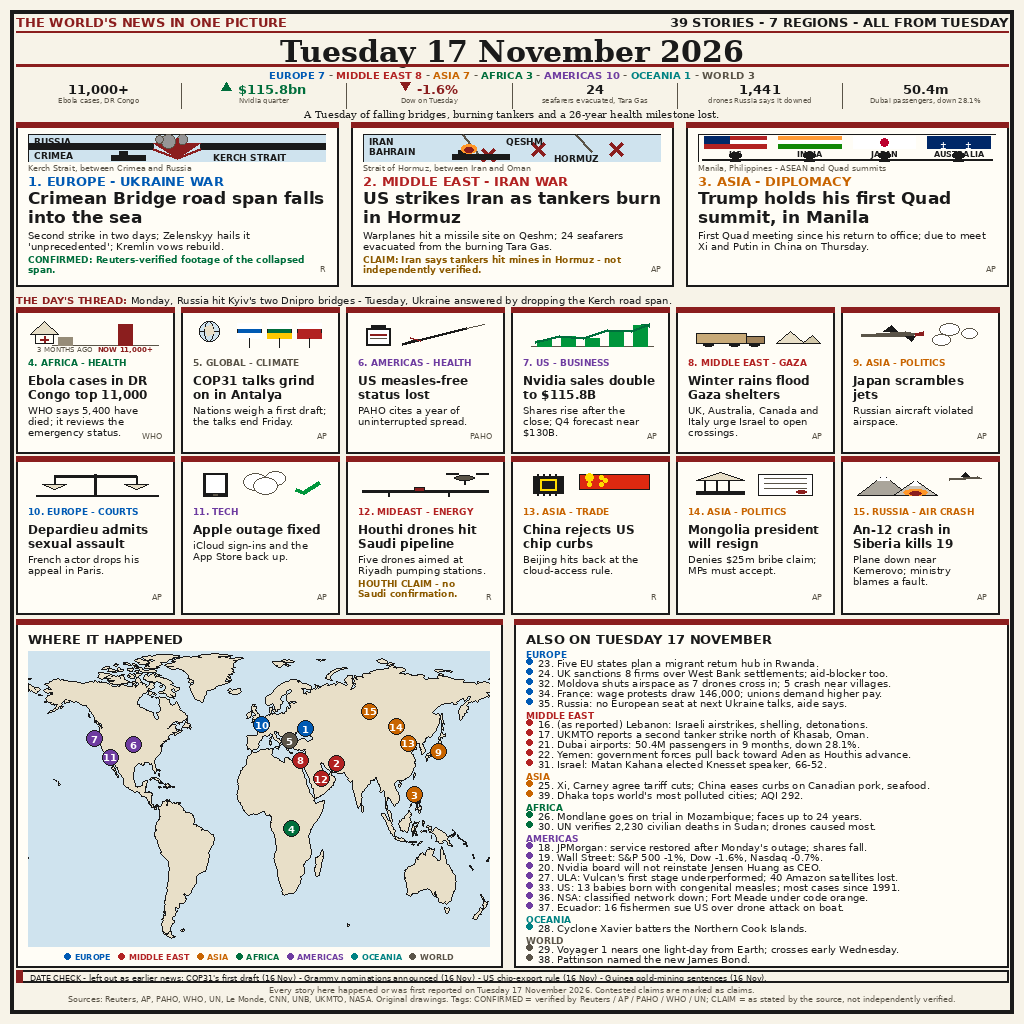
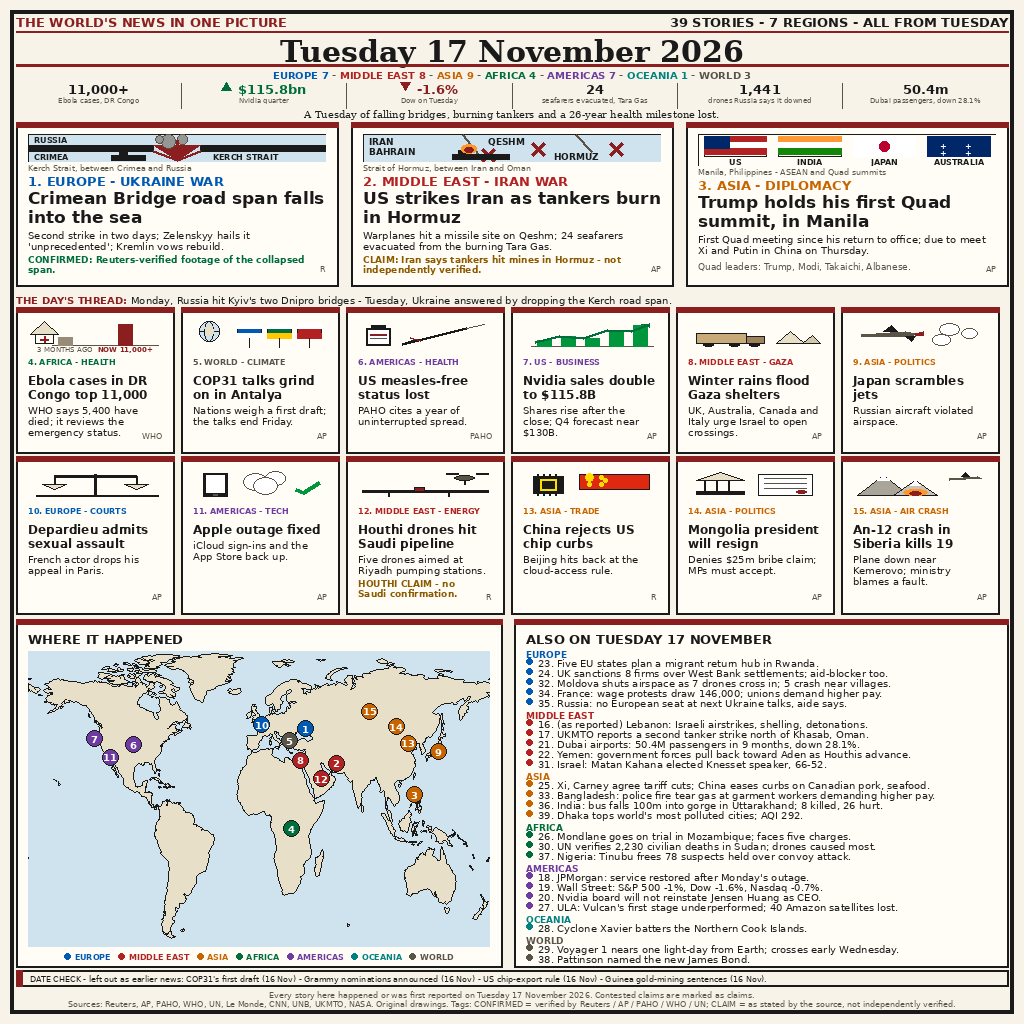
Poles 6 poin: bendera kartu 3 lebih besar + caption pemimpin Quad, label Kerch/Teluk bersih, DATE CHECK 16px, tag standar, daftar 33/36/37 Asia-Afrika, hapus frasa tanpa sumber

diff --git a/make_image.py b/make_image.py
@@ -29,6 +29,18 @@ or the CONFIRMED/CLAIM tags:
    card 14) and card 7 uses a rising-chart scene (not a chip like
    card 13).
 
+Polish round (19 Nov 2026 ~05:03 WIB): card 3's flag area is 32 px
+(flags 20 px, labels clear; the dots are removed from map_quad
+because in a 28-32 px strip they sat on top of the labels) plus a
+leaders caption; cards 1-2 labels clear of lines and icons; DATE
+CHECK strip raised to 16 px; tags standardised to "[REGION] -
+[TOPIC]" (small-card cat font 8 px so "MIDDLE EAST - ENERGY"
+fits); list items 33, 36, 37 replaced with Asia/Africa stories
+(Bangladesh garment protests, Uttarakhand bus crash, Tinubu frees
+78 suspects); the unsourced "shares fall" (JPMorgan) and "faces up
+to 24 years" (Mondlane) phrases removed, while Vulcan keeps "first
+stage underperformed" because the title names ULA as its source.
+
 A layout check runs before saving: it stops the program if any card
 title or body shrank below its set size, if any card's content
 overflows its frame, if the list does not fit, if two map pins
@@ -249,10 +261,13 @@ def draw_tag(d, x, y, w, text, color, group, start=9, max_h=20):
 
 def map_kerch(d, x, y, w, h):
     d.rectangle([x, y, x + w, y + h], fill=SEA, outline=INK, width=1)
-    f = fb(SANS_B, 9)
-    d.text((x + 6, y + 2), "RUSSIA", font=f, fill=INK)
-    d.text((x + 6, y + h - 12), "CRIMEA", font=f, fill=INK)
-    by = y + h * 0.45
+    # 8 px labels so RUSSIA and CRIMEA clear the bridge line: RUSSIA
+    # ends above the bridge, CRIMEA starts below it, KERCH STRAIT
+    # sits clear of both and of the ship.
+    f = fb(SANS_B, 8)
+    d.text((x + 6, y + 1), "RUSSIA", font=f, fill=INK)
+    d.text((x + 6, y + h - 10), "CRIMEA", font=f, fill=INK)
+    by = y + h * 0.50
     d.rectangle([x, y + by - 3, x + w * 0.42, y + by + 3], fill=INK)
     d.rectangle([x + w * 0.58, y + by - 3, x + w, y + by + 3], fill=INK)
     d.polygon([(x + w * 0.42, y + by - 3), (x + w * 0.50, y + by + 12),
@@ -295,10 +310,12 @@ def map_gulf(d, x, y, w, h):
               fill=(255, 150, 40))
     d.ellipse([x + w * (tx0 + 0.04), y + h * ty0 - 7,
                x + w * (tx0 + 0.07), y + h * ty0 - 2], fill=RED)
-    # QESHM top-centre between the two grey lanes, HORMUZ bottom-centre
-    # right: both clear of the X marks, the tanker and the lanes.
-    d.text((x + w * 0.48, y + h * 0.08), "QESHM", font=f, fill=INK)
-    d.text((x + w * 0.64, y + h - 9), "HORMUZ", font=f, fill=INK)
+    # QESHM left of the middle X mark (clear of it, the flame and the
+    # lanes), HORMUZ lifted off the bottom edge (clear of both X marks
+    # and the second lane's foot): both inside the box, overlapped by
+    # nothing.
+    d.text((x + w * 0.42, y + h * 0.06), "QESHM", font=f, fill=INK)
+    d.text((x + w * 0.64, y + h - 11), "HORMUZ", font=f, fill=INK)
 
 
 def map_quad(d, x, y, w, h):
@@ -310,7 +327,11 @@ def map_quad(d, x, y, w, h):
     ]
     d.rectangle([x, y, x + w, y + h], fill=CARD, outline=INK, width=1)
     cw = w / 4
-    fh = max(12, h - 23)
+    # Flags use most of the height; the labels sit directly below
+    # them. The location dots and baseline are gone: in a 28-32 px
+    # strip they sat on top of the labels, and the four flags already
+    # name the four countries.
+    fh = h - 12
     fy = y + 2
     f = fb(SANS_B, 8)
     for i, (c1, c2, c3, name) in enumerate(flags):
@@ -330,8 +351,9 @@ def map_quad(d, x, y, w, h):
                             fill=(c1, c2, c3)[s])
         elif i == 2:
             d.rectangle([fx, fy, fx + fw, fy + fh], fill=c1)
-            d.ellipse([fx + fw / 2 - 4, fy + fh / 2 - 4, fx + fw / 2 + 4,
-                       fy + fh / 2 + 4], fill=c2)
+            r = max(3, fh // 4)
+            d.ellipse([fx + fw / 2 - r, fy + fh / 2 - r, fx + fw / 2 + r,
+                       fy + fh / 2 + r], fill=c2)
         else:
             d.rectangle([fx, fy, fx + fw, fy + fh], fill=c1)
             for sx in (0.2, 0.6):
@@ -340,12 +362,6 @@ def map_quad(d, x, y, w, h):
                            fill=c2)
         d.text((fx + fw / 2 - d.textlength(name, font=f) / 2, fy + fh + 1),
                name, font=f, fill=INK)
-    ty = y + h - 3
-    d.line([(x + 4, ty), (x + w - 4, ty)], fill=INK, width=2)
-    for i in range(4):
-        cx = x + i * cw + cw / 2
-        d.ellipse([cx - 6, ty - 7, cx + 6, ty - 1], fill=INK)
-        d.rectangle([cx - 5, ty, cx + 5, ty + 2], fill=INK)
 
 
 # ---- small-card scenes (drawn to fill the strip height h) ----
@@ -648,7 +664,9 @@ STORIES = [
      "meet Xi and Putin in China on Thursday.",
      "status": "none", "event": "quad-summit-manila",
      "cat": "ASIA - DIPLOMACY", "scene": "quad", "source": "AP",
-     "caption": "Manila, Philippines - ASEAN and Quad summits"},
+     "caption": "Manila, Philippines - ASEAN and Quad summits",
+     "map_h": 32,
+     "caption2": "Quad leaders: Trump, Modi, Takaichi, Albanese."},
     {"id": 4, "region": "AFRICA",
      "title": "Ebola cases in DR Congo top 11,000",
      "summary": "WHO says 5,400 have died; it reviews the emergency "
@@ -659,7 +677,7 @@ STORIES = [
      "title": "COP31 talks grind on in Antalya",
      "summary": "Nations weigh a first draft; the talks end Friday.",
      "status": "none", "event": "cop31-talks",
-     "cat": "GLOBAL - CLIMATE", "scene": "cop31", "source": "AP"},
+     "cat": "WORLD - CLIMATE", "scene": "cop31", "source": "AP"},
     {"id": 6, "region": "AMERICAS",
      "title": "US measles-free status lost",
      "summary": "PAHO cites a year of uninterrupted spread.",
@@ -690,12 +708,12 @@ STORIES = [
      "title": "Apple outage fixed",
      "summary": "iCloud sign-ins and the App Store back up.",
      "status": "none", "event": "apple-outage",
-     "cat": "TECH", "scene": "apple", "source": "AP"},
+     "cat": "AMERICAS - TECH", "scene": "apple", "source": "AP"},
     {"id": 12, "region": "MIDDLE EAST",
      "title": "Houthi drones hit Saudi pipeline",
      "summary": "Five drones aimed at Riyadh pumping stations.",
      "status": "CLAIM", "event": "houthi-drones-saudi",
-     "cat": "MIDEAST - ENERGY", "scene": "houthi", "source": "R",
+     "cat": "MIDDLE EAST - ENERGY", "scene": "houthi", "source": "R",
      "tag": "HOUTHI CLAIM - no Saudi confirmation."},
     {"id": 13, "region": "ASIA",
      "title": "China rejects US chip curbs",
@@ -711,7 +729,7 @@ STORIES = [
      "title": "An-12 crash in Siberia kills 19",
      "summary": "Plane down near Kemerovo; ministry blames a fault.",
      "status": "none", "event": "an12-crash",
-     "cat": "RUSSIA - AIR CRASH", "scene": "an12", "source": "AP"},
+     "cat": "ASIA - AIR CRASH", "scene": "an12", "source": "AP"},
     {"id": 16, "region": "MIDDLE EAST",
      "title": "(as reported) Lebanon: Israeli airstrikes, shelling, "
      "detonations.",
@@ -725,10 +743,9 @@ STORIES = [
      "Oman.",
      "status": "none", "event": "second-tanker-khasab", "source": "UKMTO"},
     {"id": 18, "region": "AMERICAS",
-     "title": "JPMorgan: service restored after Monday's outage; "
-     "shares fall.",
+     "title": "JPMorgan: service restored after Monday's outage.",
      "summary": "Chase said transactions were back to normal after "
-     "Monday's software bug; shares fell.",
+     "Monday's software bug.",
      "status": "none", "event": "jpmorgan-outage", "source": "AP"},
     {"id": 19, "region": "AMERICAS",
      "title": "Wall Street: S&P 500 -1%, Dow -1.6%, Nasdaq -0.7%.",
@@ -767,8 +784,7 @@ STORIES = [
      "seafood; Canada extends steel and aluminium relief.",
      "status": "none", "event": "xi-carney-tariffs", "source": "R"},
     {"id": 26, "region": "AFRICA",
-     "title": "Mondlane goes on trial in Mozambique; faces up to "
-     "24 years.",
+     "title": "Mondlane goes on trial in Mozambique; faces five charges.",
      "summary": "Opposition leader Venancio Mondlane faces five charges "
      "over the deadly 2024 election protests.",
      "status": "none", "event": "mondlane-trial", "source": "AP"},
@@ -805,12 +821,13 @@ STORIES = [
      "summary": "Moldova shut its airspace as seven drones crossed in; "
      "five crashed near villages.",
      "status": "none", "event": "moldova-drones", "source": "AP"},
-    {"id": 33, "region": "AMERICAS",
-     "title": "US: 13 babies born with congenital measles; most cases "
-     "since 1991.",
-     "summary": "Thirteen babies were born with congenital measles in "
-     "the US; cases are the highest since 1991.",
-     "status": "none", "event": "congenital-measles", "source": "AP"},
+    {"id": 33, "region": "ASIA",
+     "title": "Bangladesh: police fire tear gas at garment workers "
+     "demanding higher pay.",
+     "summary": "Police fired tear gas at garment workers around Dhaka "
+     "demanding a Tk 30,000 minimum wage, up from Tk 12,500.",
+     "status": "none", "event": "bangladesh-garment-protests",
+     "source": "TH"},
     {"id": 34, "region": "EUROPE",
      "title": "France: wage protests draw 146,000; unions demand higher "
      "pay.",
@@ -822,17 +839,19 @@ STORIES = [
      "summary": "Moscow has not agreed to European participation in the "
      "next round of Ukraine talks, aide Yuri Ushakov said.",
      "status": "none", "event": "russia-europe-talks", "source": "R"},
-    {"id": 36, "region": "AMERICAS",
-     "title": "NSA: classified network down; Fort Meade under code "
-     "orange.",
-     "summary": "The NSA's classified NSANet network went down early "
-     "Tuesday; the Fort Meade campus was restricted under code orange.",
-     "status": "none", "event": "nsa-nsanet-outage", "source": "CNN"},
-    {"id": 37, "region": "AMERICAS",
-     "title": "Ecuador: 16 fishermen sue US over drone attack on boat.",
-     "summary": "Sixteen Ecuadorian fishermen sued the US government "
-     "over a drone attack that sank their boat in the Pacific in March.",
-     "status": "none", "event": "ecuador-fishermen-lawsuit", "source": "AP"},
+    {"id": 36, "region": "ASIA",
+     "title": "India: bus falls 100m into gorge in Uttarakhand; 8 "
+     "killed, 26 hurt.",
+     "summary": "A bus carrying 34 people fell 100 metres into a gorge "
+     "near Gular bridge in Tehri Garhwal early Tuesday; 8 were killed "
+     "and 26 hurt.",
+     "status": "none", "event": "uttarakhand-bus-crash", "source": "PTI"},
+    {"id": 37, "region": "AFRICA",
+     "title": "Nigeria: Tinubu frees 78 suspects held over convoy "
+     "attack.",
+     "summary": "President Tinubu granted clemency to 78 suspects "
+     "arrested over the stoning of his convoy in Abuja on Friday.",
+     "status": "none", "event": "tinubu-frees-suspects", "source": "AP"},
     {"id": 38, "region": "WORLD",
      "title": "Pattinson named the new James Bond.",
      "summary": "British actor Robert Pattinson was named as the new "
@@ -935,11 +954,11 @@ def draw_big_panel(img, d, x, y, w, h, story):
     font2, lines2, lh2 = fit_block(d, story["summary"], SANS, BODY_SIZE,
                                    BODY_SIZE, iw, 3, 33,
                                    label=f"big sub {num}", strict=True)
-    # Fixed illustration height (point 4): the wide map is 28 px in
-    # every big card, so the caption, category, title and body start
-    # at the same y in all three. Drawn on a layer, so it is clipped
-    # to its box (point 2).
-    map_h = 28
+    # Fixed illustration height: the wide map is 28 px in big cards,
+    # except card 3 (Quad flags), whose map is 32 px so the flags are
+    # taller and their labels clear (the dots are gone from map_quad).
+    # Drawn on a layer, so it is clipped to its box.
+    map_h = story.get("map_h", 28)
     HEIGHT_LOG.append((f"big card {num} map-min", map_h, 28))
 
     def _map(ld, mx, my, mw, mh):
@@ -965,11 +984,19 @@ def draw_big_panel(img, d, x, y, w, h, story):
     for ln in lines2:
         tbox(d, ix, sy, ln, font2, INK, group, label="sub")
         sy += lh2
+    # Extra caption, only where the story carries one (card 3): fills
+    # the empty space under the body text.
+    caption2 = story.get("caption2")
+    if caption2:
+        tbox(d, ix, sy + 6, caption2, fb(SANS, 9), GREY, group,
+             label="caption2")
+        sy += 6 + 10
     if tag is not None:
         draw_tag(d, ix, sy + 3, iw, tag[0], tag[1], group)
     draw_source(d, ix, iy, iw, ih, story["source"], group)
     content_h = (map_h + 8 + 3 + 15 + len(lines) * lh + 3
-                 + len(lines2) * lh2 + 3 + (20 if tag else 0))
+                 + len(lines2) * lh2 + (16 if caption2 else 0)
+                 + 3 + (20 if tag else 0))
     HEIGHT_LOG.append((f"big card {num}", content_h, ih))
 
 
@@ -998,7 +1025,9 @@ def draw_small_panel(img, d, x, y, w, h, story):
                   lambda ld, mx, my, mw, mh: draw_scene(
                       ld, mx, my, mw, mh, story["scene"]), CARD)
     cy = iy + scene_h + 4
-    tbox(d, ix, cy, f"{num}. {story['cat']}", fb(SANS_B, 9), region_col,
+    # 8 px (was 9): the standardised "MIDDLE EAST - ENERGY" tag is
+    # too wide for a 134 px card at 9 px.
+    tbox(d, ix, cy, f"{num}. {story['cat']}", fb(SANS_B, 8), region_col,
          group, label="cat")
     hy = cy + 16
     font, lines, lh = fit_block(d, story["title"], SANS_B, TITLE_SIZE,
@@ -1222,19 +1251,20 @@ def main():
             yy += 3
     HEIGHT_LOG.append(("list", yy - list_top, list_h))
 
-    # 5. DATE CHECK, one line.
-    d.rectangle([16, 970, 1008, 982], outline=INK, width=2)
-    d.rectangle([16, 970, 22, 982], fill=RED)
-    tbox(d, 30, 973, DATECHECK_TEXT, fb(SANS, 8), INK, "footer",
+    # 5. DATE CHECK, one line, in a taller strip (16 px) so the text
+    # sits clear of the box lines.
+    d.rectangle([16, 970, 1008, 986], outline=INK, width=2)
+    d.rectangle([16, 970, 22, 986], fill=RED)
+    tbox(d, 30, 974, DATECHECK_TEXT, fb(SANS, 8), INK, "footer",
          label="datecheck")
 
     # Footer (with the tag legend on the second line), raised and set
     # at 8 px so both source lines read in full (point 3).
-    tbox_c(d, W // 2, 985,
+    tbox_c(d, W // 2, 990,
            "Every story here happened or was first reported on Tuesday "
            "17 November 2026. Contested claims are marked as claims.",
            fb(SANS, 8), GREY, "footer", label="footer1")
-    tbox_c(d, W // 2, 994,
+    tbox_c(d, W // 2, 999,
            "Sources: Reuters, AP, PAHO, WHO, UN, Le Monde, CNN, UNB, "
            "UKMTO, NASA. Original drawings. Tags: CONFIRMED = verified "
            "by Reuters / AP / PAHO / WHO / UN; CLAIM = as stated by the "
